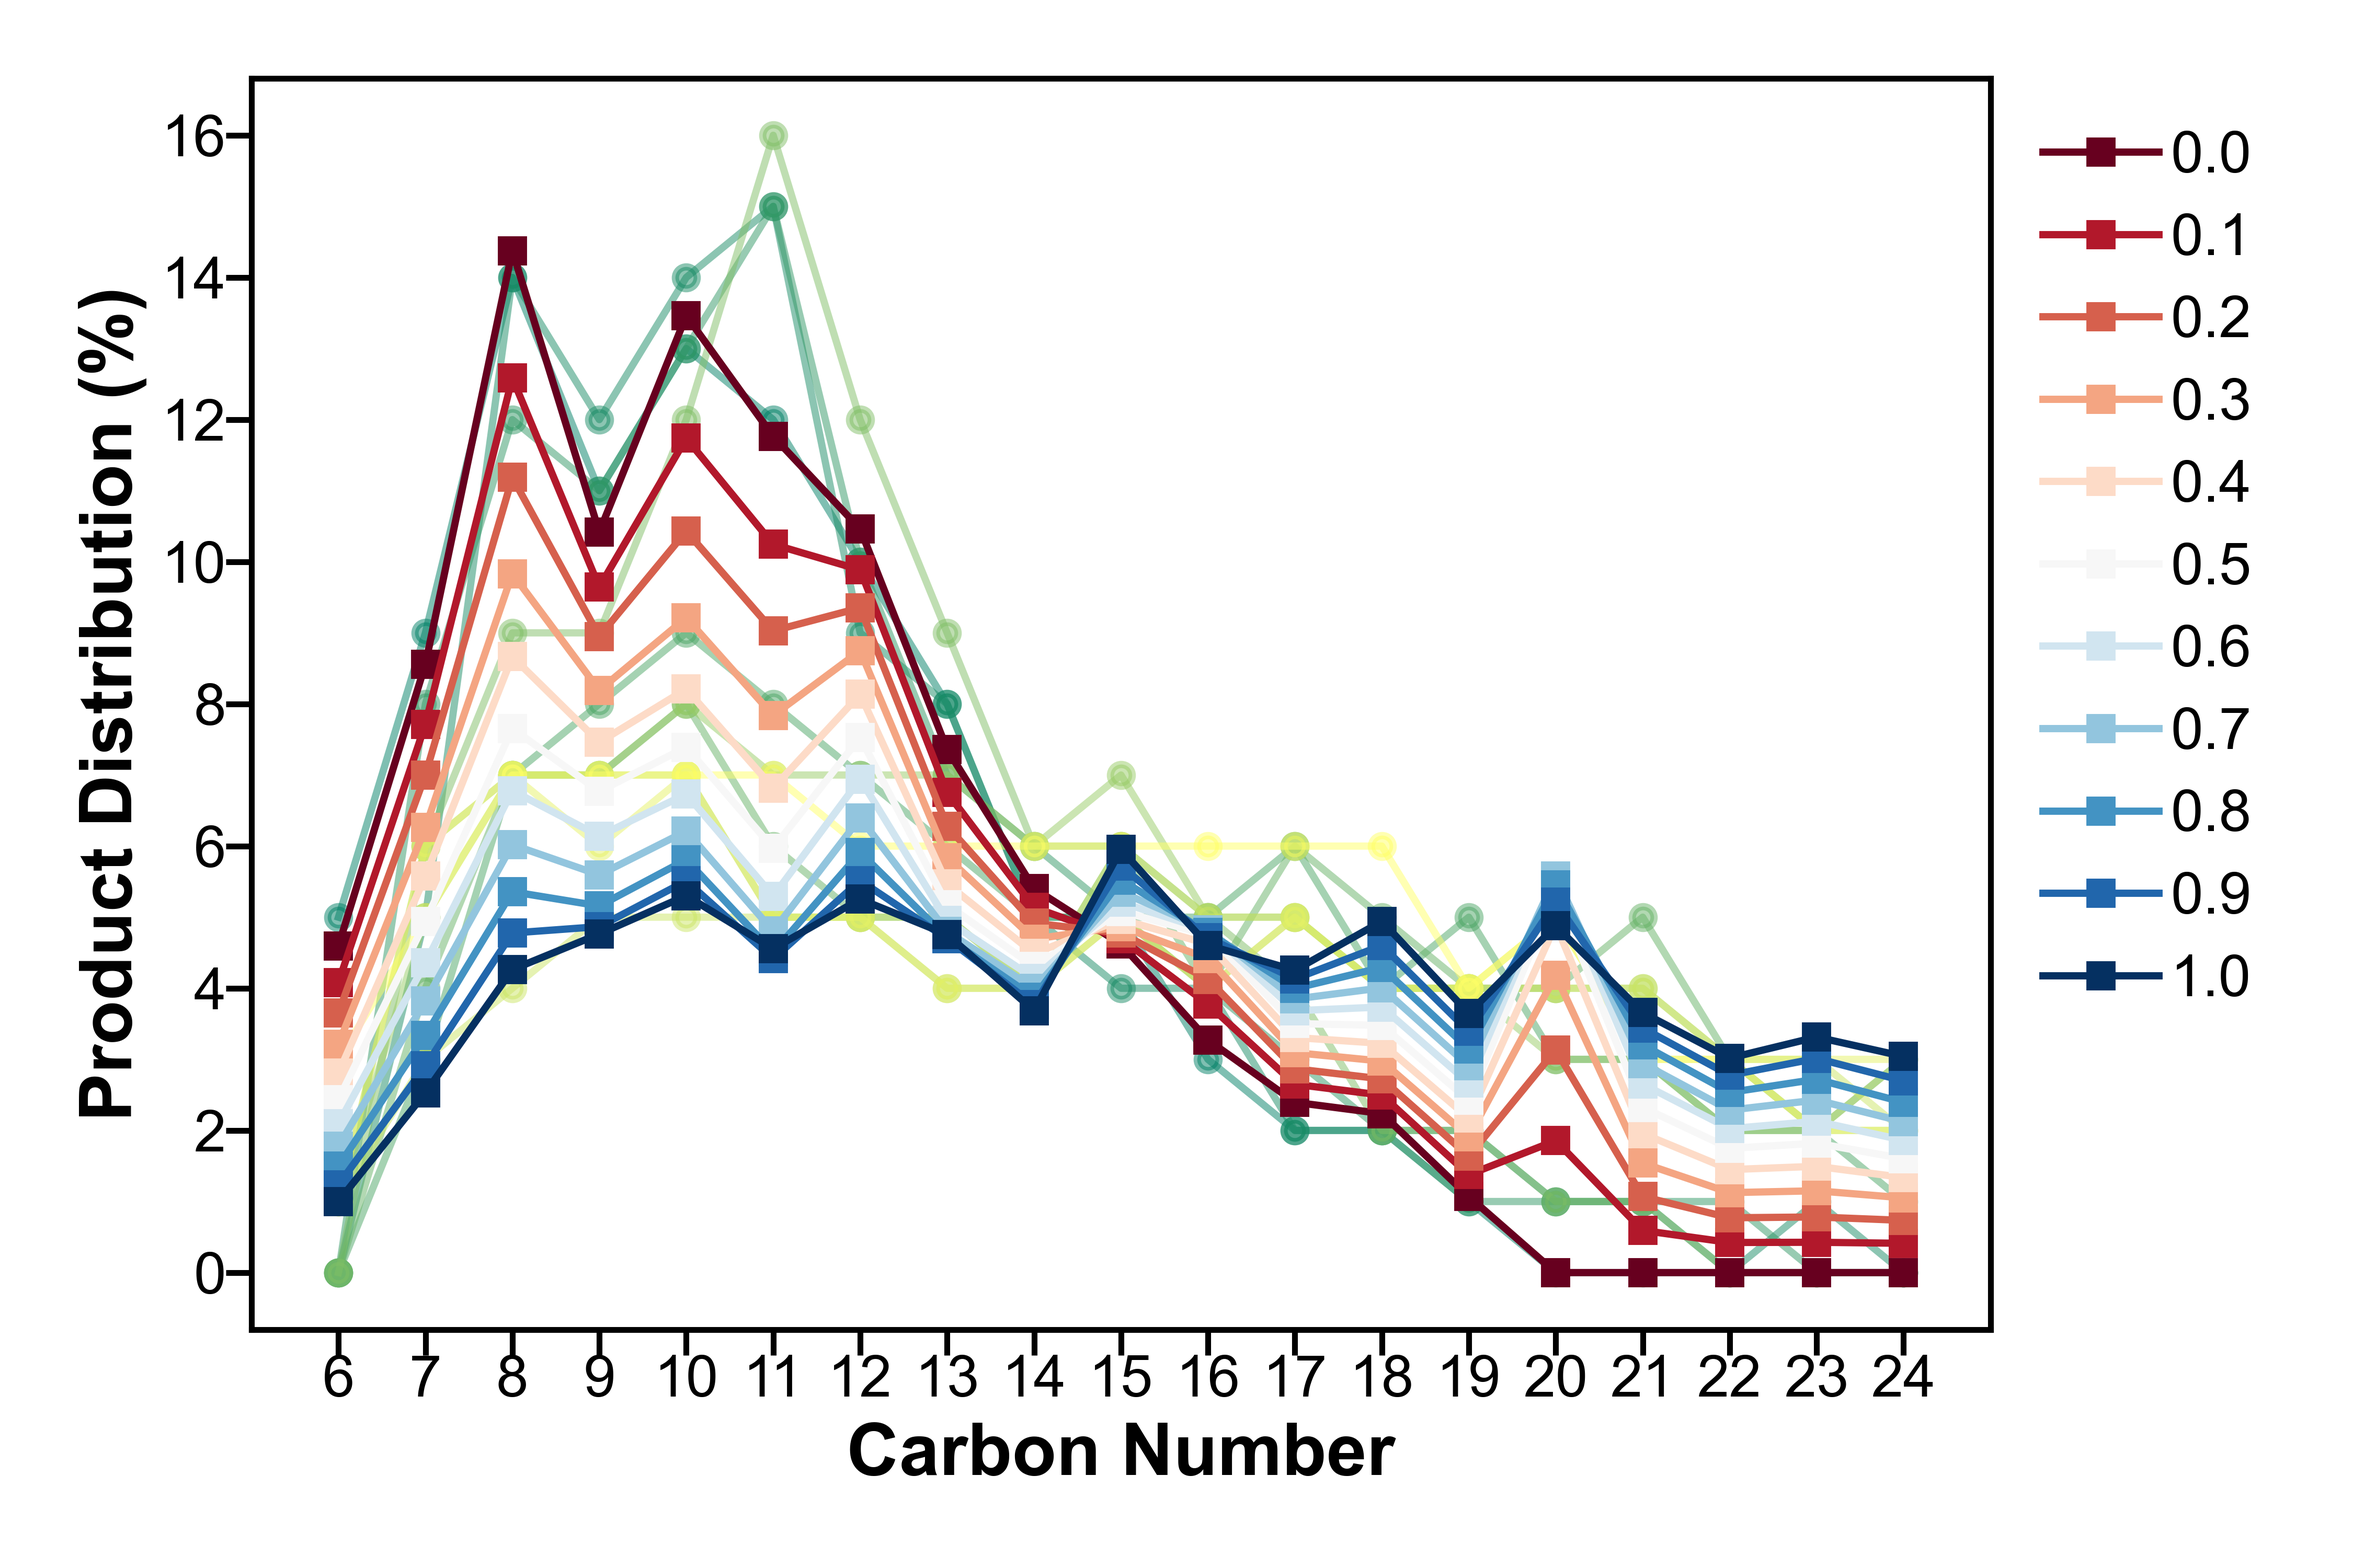
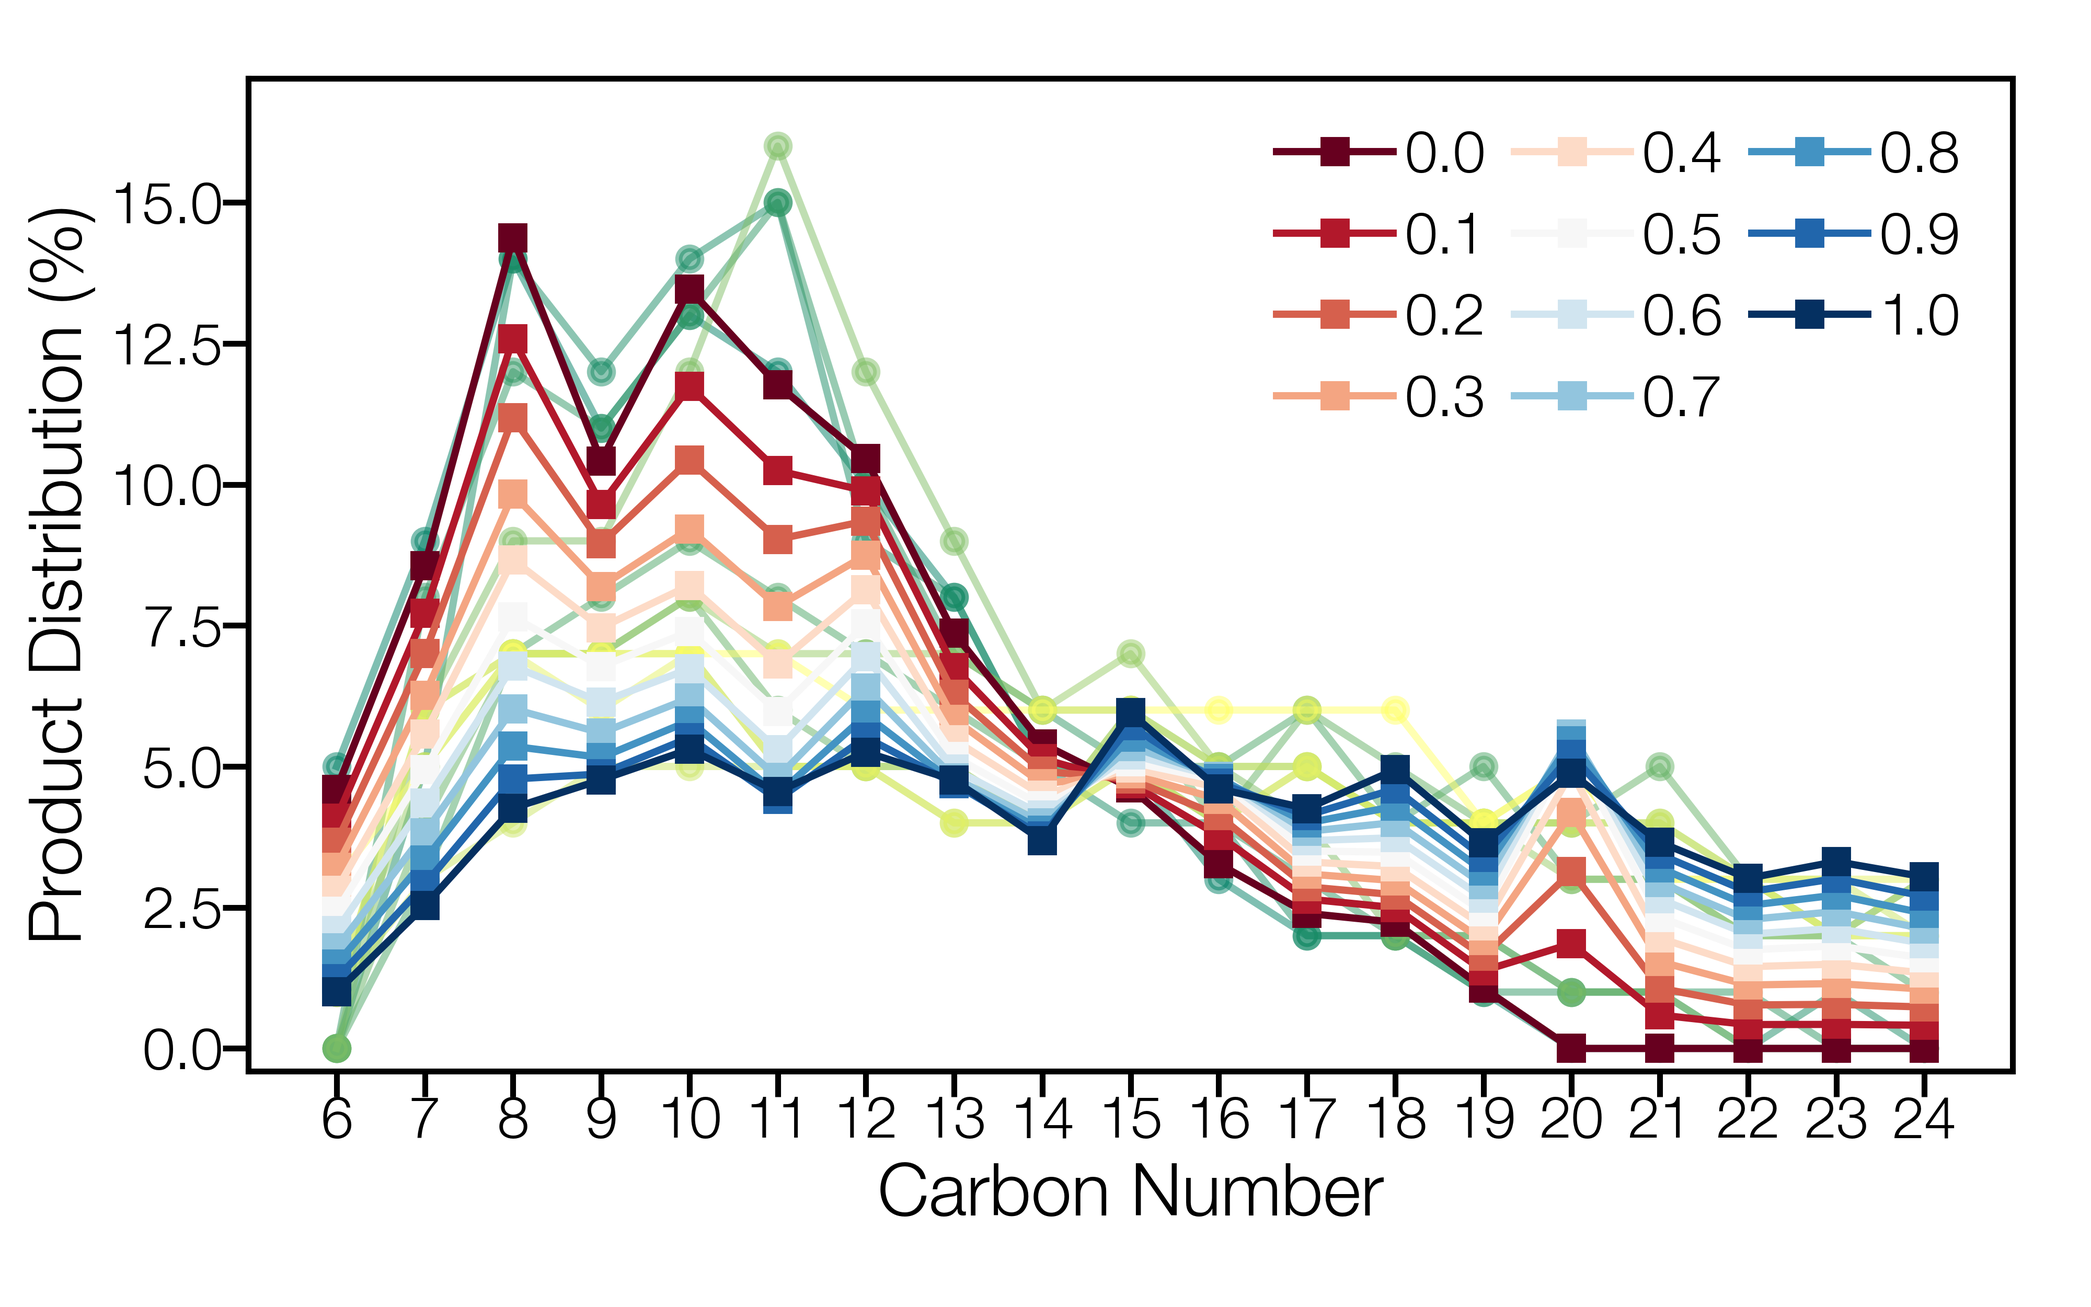
Revise sensitivity analysis plots

diff --git a/plotting.py b/plotting.py
@@ -15,13 +15,14 @@ cmap_target = cm.get_cmap('viridis', len(targets))
 from matplotlib import rcParams
 import numpy as np
 import os
+import pandas as pd
 
 fs = 10
 dpi = 200
-config_figure = {'figure.figsize': (7, 3), 'figure.titlesize': fs,
+config_figure = {'figure.figsize': (4, 2.5), 'figure.titlesize': fs,
                  'font.size': fs, 'font.family': 'sans-serif', 'font.serif': ['computer modern roman'],
-                 'font.sans-serif': ['Arial'],  # Avenir LT Std, Helvetica Neue LT Pro, Helvetica LT Std, Helvetica Neue LT Pro
-                 'font.weight': '300', 'axes.titleweight': 'bold', 'axes.labelweight': 'bold',
+                 'font.sans-serif': ['Helvetica Neue LT Pro'],
+                 'font.weight': '300', 'axes.titleweight': '400', 'axes.labelweight': '300',
                  'axes.xmargin': 0, 'axes.titlesize': fs, 'axes.labelsize': fs, 'axes.labelpad': 2,
                  'xtick.labelsize': fs-2, 'ytick.labelsize': fs-2, 'xtick.major.pad': 0, 'ytick.major.pad': 0,
                  'legend.fontsize': fs-2, 'legend.title_fontsize': fs, 'legend.frameon': False,
@@ -40,17 +41,16 @@ param_name = 'Interp1'
 df_sa = pd.read_csv(dir_all + r"\results.csv")
 df_plot = df_sa.iloc[[0, 10]+[k*10-1 for k in range(2,11)],:]
 df_plot = df_plot.sort_index()
+df_converged = df_plot[df_plot['state'].isin(['Converged', 'Warning'])]
 
-N_grid = len(df_plot)
-fig, axs = plt.subplots(1, 2, sharey=True)
+N_grid = len(df_converged)
 cmap_rand = cm.get_cmap('RdBu', N_grid)
 cmap_target = cm.get_cmap('summer', len(targets))
 
-df_converged = df_plot[df_plot['state'].isin(['Converged', 'Warning'])]
 product_carbon_range = [c for c in sim_main.carbon_number_to_component.keys()]
 col_products = [f"C{i}" for i in product_carbon_range]
 
-ax = axs[0]
+fig, ax = plt.subplots(1, 1)
 for i, (key, val) in enumerate(targets.items()):
     val_to_draw = {k: v for (k, v) in val.items() if k < 25}
     ax.plot(val_to_draw.keys(), [v * 100 for v in val_to_draw.values()], '-o', markersize=3,
@@ -64,29 +64,32 @@ for i, (idx, row) in enumerate(df_converged.iterrows()):
              color=cmap_rand(i), label=f"{val_interp:.1f}")
 
 ax.set_xlim(5, 25)
+ax.set_ylim(-0.4, 17.2)
 x_ticks = np.arange(6, product_carbon_range[-1], 1)
 ax.set_xticks(x_ticks)
 
 ax.set_xlabel("Carbon Number")
 ax.set_ylabel("Product Distribution (%)")
-ax.set_title("Heavy-end")
+plt.legend(loc='upper right', ncol=3)
+plt.tight_layout()
+plt.savefig(r'D:\saf_hdo\figures\sensitivity_param_0.png')
+plt.show()
 #%
-
 dir_all = r"D:\saf_hdo\aspen\grid_20251203_105302_param_1"
 param_name = 'Interp2'
 df_sa = pd.read_csv(dir_all + r"\results.csv")
-df_plot = df_sa.iloc[[0]+[k*10-1 for k in range(1,11)]+[80],:]
+df_plot = df_sa.iloc[[0]+[k*10-1 for k in range(1,11)] + [78],:]
 df_plot = df_plot.sort_index()
+df_converged = df_plot[df_plot['state'].isin(['Converged', 'Warning'])]
 
-N_grid = len(df_plot)
+N_grid = len(df_converged)
 cmap_rand = cm.get_cmap('RdBu', N_grid)
 cmap_target = cm.get_cmap('summer', len(targets))
 
-df_converged = df_plot[df_plot['state'].isin(['Converged', 'Warning'])]
 product_carbon_range = [c for c in sim_main.carbon_number_to_component.keys()]
 col_products = [f"C{i}" for i in product_carbon_range]
 
-ax = axs[1]
+fig, ax = plt.subplots(1, 1)
 for i, (key, val) in enumerate(targets.items()):
     val_to_draw = {k: v for (k, v) in val.items() if k < 25}
     ax.plot(val_to_draw.keys(), [v * 100 for v in val_to_draw.values()], '-o', markersize=3,
@@ -100,14 +103,15 @@ for i, (idx, row) in enumerate(df_converged.iterrows()):
              color=cmap_rand(i), label=f"{val_interp:.1f}")
 
 ax.set_xlim(5, 25)
+ax.set_ylim(-0.4, 17.2)
 x_ticks = np.arange(6, product_carbon_range[-1], 1)
 ax.set_xticks(x_ticks)
 
 ax.set_xlabel("Carbon Number")
-ax.set_title("Peak Shift")
-plt.legend(loc='upper left', bbox_to_anchor=(1, 1))
+ax.set_ylabel("Product Distribution (%)")
+plt.legend(loc='upper right', ncol=3)
 plt.tight_layout()
-plt.savefig(r'D:\saf_hdo\figures\sensitivity_param_combined.png')
+plt.savefig(r'D:\saf_hdo\figures\sensitivity_param_1.png')
 plt.show()
 
 #%%
